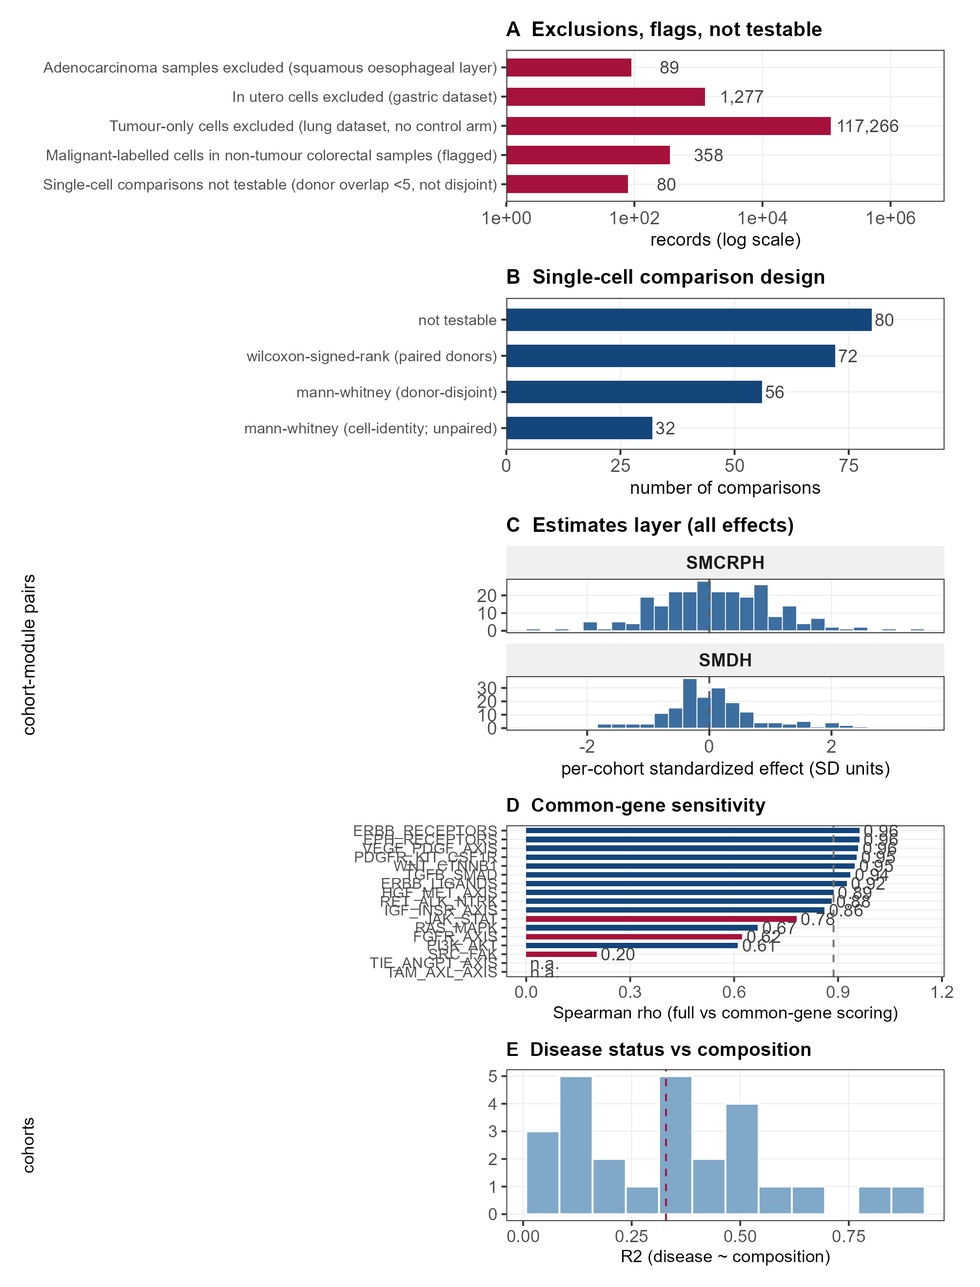
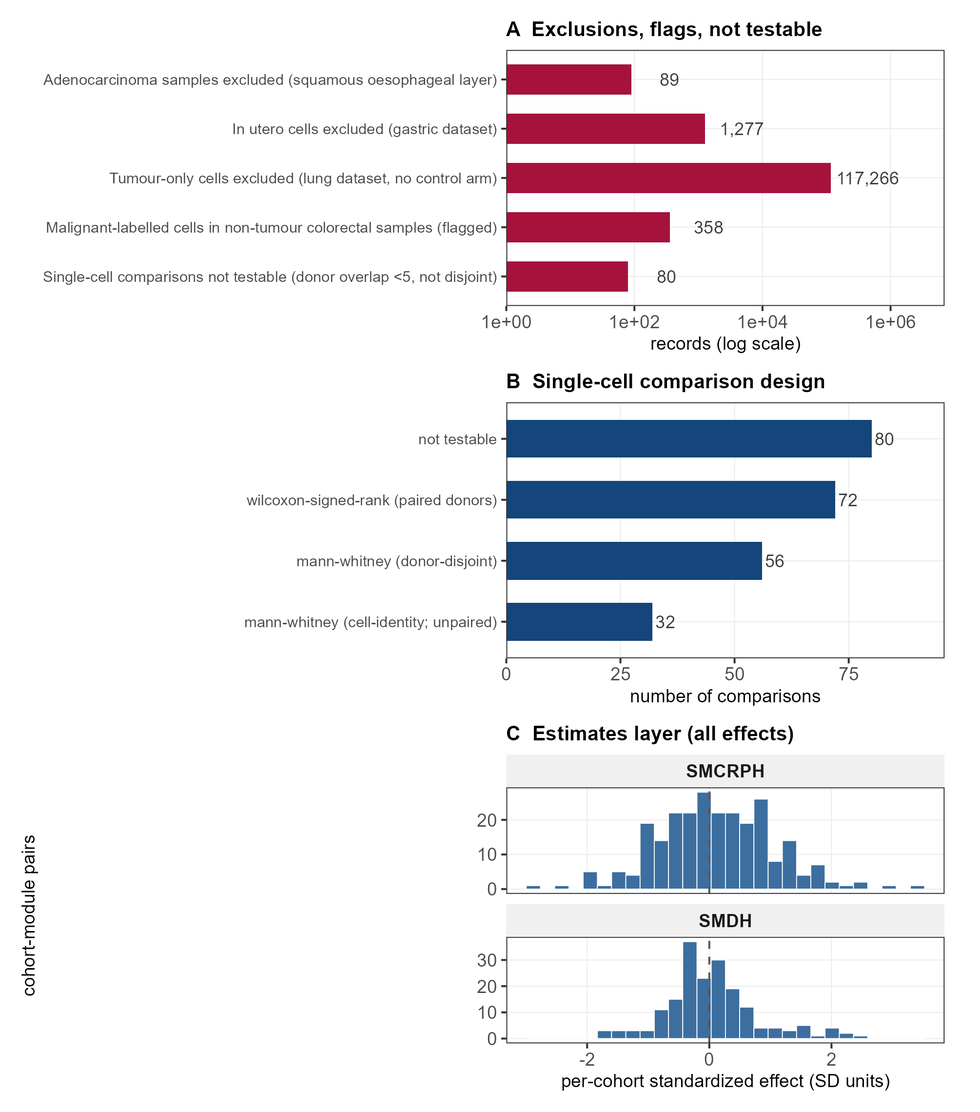
v13.1: fixes from three independent cold reviews - sorted medians, harmonised mutation denominators, CELLxGENE verification record corrected, two-pass checksums (LF, sha256sum -c clean), example 2 made runnable with regenerated expected output, score-level reproducibility table, package self-suffici

diff --git a/scripts/v12_data_resource/83_v13_manuscript.py b/scripts/v12_data_resource/83_v13_manuscript.py
@@ -80,7 +80,7 @@ This resource performs that curation once, documents it, and quantifies how far 
 The resource is deposited in Zenodo ({DEP}) and organised as ten folders: 01 cohort registry, provenance and source versions; 02 sample annotation; 03 expression provenance with the mapping and transformation log; 04 module definitions, coverage and per-sample scores; 05 composition scores with sample keys, join audit and signature overlap; 06 single-cell dataset audit, labels and donor-aware comparisons; 07 the complete estimates layer, including not-estimable and not-testable results; 08 quality-control records, validation evidence and the curation flow; 09 runnable reuse examples with expected outputs and a shipped demo matrix; 10 environment, run order and versioning. A file inventory with row counts and SHA-256 checksums is shipped ({len(inv)} files); the estimates layer contains {n_full} cohort-module rows ({n_est} estimated, {n_ne} not estimable with reasons). Figure legends are provided as a separate document; Tables 1 and Supplementary Tables S1-S9 are separate files.
 
 **Technical Validation**
-Coverage and composition of the resource are shown in Figure 1; the validation evidence is shown in Figures 2 and 3. Sample identity: no sample identifier is duplicated across the {n_cc} case-control cohorts, and every sample in the annotation resolves to a registry entry. Design: pairing is metadata-derived ({n_paired} paired cohorts) and the {n_nopid} cohorts without patient identifiers are analysed unpaired and flagged. Histology and mutation layer: the oesophageal layer is restricted to squamous histology ({tp53['denominator_n']} patients), where TP53 is reported mutated in {tp53['n_mutated_samples']} patients ({tp53['pct']}%), EGFR in {egfr_m['n_mutated_samples']} ({egfr_m['pct']}%), and neither KRAS nor ERBB2 in any patient of the profiled list; EGFR high-level amplification is present in {egfr_c['n_high_amp']} of {egfr_c['n_cna_profiled']} copy-number-profiled squamous patients ({egfr_c['pct_high_amp']}%, with gain or amplification in {egfr_c['n_gain_or_amp']}, {egfr_c['pct_gain']}%). Exact reproduction: the {len(sc_verify)} cohort-module effects and their standard errors of three independently recomputed bulk cohorts agreed with the shipped values to a maximum absolute difference of 0 ({len(set(r['accession'] for r in sc_verify))} cohorts; sample-level scores Spearman 1.00); refitting the Cox models from the shipped patient scores reproduced all {len(tcgacox)} shipped hazard ratios with a maximum absolute difference of 0 (LUAD, CRC and squamous oesophageal contexts, univariable and age-plus-stage). Rank agreement (not exact reproduction): rebuilding the TCGA patient-level scores from the gene-level table reproduced the shipped scores in rank order (Spearman {min(float(r['spearman']) for r in tcgascore):.2f}-0.98 across {sum(int(r['pairs']) for r in tcgascore):,} patient-module pairs), the residual absolute differences arising from the aggregation order, which is now stated explicitly in Methods. Composition: independently recomputed xCell compartment scores agreed with the shipped values (Pearson {min(float(r['pearson']) for r in xcell):.2f}-{max(float(r['pearson']) for r in xcell):.2f}, Spearman {min(float(r['spearman']) for r in xcell):.2f}-{max(float(r['spearman']) for r in xcell):.2f}). Comparability: across the {len(ccons)} context-module pairs with at least two cohorts, {same_sign} ({100*same_sign/len(ccons):.0f}%) have effects of the same sign in every contributing cohort, and the number of pooled states surviving BH control changes from {nsig('all cohorts')} with all cohorts to {nsig('coverage >= 0.60')} at coverage 0.60, {nsig('coverage >= 0.80')} at 0.80 and {nsig('coverage >= 0.90')} at 0.90 (k = {nk('all cohorts')} to {nk('coverage >= 0.90')} pairs), so comparability degrades gradually with coverage rather than being an all-or-nothing property. Survival layer: proportional hazards was not violated for any of the {len(ph)} tested module features, which is evidence of absence of a detectable violation rather than proof that the assumption holds. Single-cell: {len(scc)} comparisons are shipped ({ct.get('tumour-vs-adjacent',0)} tumour-versus-adjacent, {ct.get('case-vs-healthy',0)} case-versus-healthy, {ct.get('cell-identity',0)} cell-identity), each labelled with the test actually used ({tt.get('wilcoxon-signed-rank (paired donors)',0)} paired by donor, {tt.get('mann-whitney (donor-disjoint)',0)} donor-disjoint unpaired, {tt.get('mann-whitney (cell-identity; unpaired)',0)} cell-identity contrasts, {tt.get('not testable',0)} reported as not testable); {len(sig)} comparisons reach FDR below 0.05 within their context x module x comparison-type family and are descriptive rather than validated biology. Module scores are expression-derived and do not measure phosphorylation or pathway activity.{" Module coverage flags: " + ", ".join(disagree) + " show direction disagreement in at least 20% of cohorts and " + ", ".join(notscor) + " have too few shared members to re-score." if disagree or notscor else ""}
+Coverage and composition of the resource are shown in Figure 1; the validation evidence is shown in Figures 2 to 4. Sample identity: no sample identifier is duplicated across the {n_cc} case-control cohorts, and every sample in the annotation resolves to a registry entry. Design: pairing is metadata-derived ({n_paired} paired cohorts) and the {n_nopid} cohorts without patient identifiers are analysed unpaired and flagged. Histology and mutation layer: the oesophageal layer is restricted to squamous histology ({tp53['denominator_n']} patients), where TP53 is reported mutated in {tp53['n_mutated_samples']} patients ({tp53['pct']}%), EGFR in {egfr_m['n_mutated_samples']} ({egfr_m['pct']}%), and neither KRAS nor ERBB2 in any patient of the profiled list; EGFR high-level amplification is present in {egfr_c['n_high_amp']} of {egfr_c['n_cna_profiled']} copy-number-profiled squamous patients ({egfr_c['pct_high_amp']}%, with gain or amplification in {egfr_c['n_gain_or_amp']}, {egfr_c['pct_gain']}%). Exact reproduction: the {len(sc_verify)} cohort-module effects and their standard errors of three independently recomputed bulk cohorts agreed with the shipped values to a maximum absolute difference of 0 ({len(set(r['accession'] for r in sc_verify))} cohorts; sample-level scores Spearman 1.00); refitting the Cox models from the shipped patient scores reproduced all {len(tcgacox)} shipped hazard ratios with a maximum absolute difference of 0 (LUAD, CRC and squamous oesophageal contexts, univariable and age-plus-stage). Rank agreement (not exact reproduction): rebuilding the TCGA patient-level scores from the gene-level table reproduced the shipped scores in rank order (Spearman {min(float(r['spearman']) for r in tcgascore):.2f}-0.98 across {sum(int(r['pairs']) for r in tcgascore):,} patient-module pairs), the residual absolute differences arising from the aggregation order, which is now stated explicitly in Methods. Composition: independently recomputed xCell compartment scores agreed with the shipped values (Pearson {min(float(r['pearson']) for r in xcell):.2f}-{max(float(r['pearson']) for r in xcell):.2f}, Spearman {min(float(r['spearman']) for r in xcell):.2f}-{max(float(r['spearman']) for r in xcell):.2f}). Comparability: across the {len(ccons)} context-module pairs with at least two cohorts, {same_sign} ({100*same_sign/len(ccons):.0f}%) have effects of the same sign in every contributing cohort, and the number of pooled states surviving BH control changes from {nsig('all cohorts')} with all cohorts to {nsig('coverage >= 0.60')} at coverage 0.60, {nsig('coverage >= 0.80')} at 0.80 and {nsig('coverage >= 0.90')} at 0.90 (k = {nk('all cohorts')} to {nk('coverage >= 0.90')} pairs), so comparability degrades gradually with coverage rather than being an all-or-nothing property. Survival layer: proportional hazards was not violated for any of the {len(ph)} tested module features, which is evidence of absence of a detectable violation rather than proof that the assumption holds. Single-cell: {len(scc)} comparisons are shipped ({ct.get('tumour-vs-adjacent',0)} tumour-versus-adjacent, {ct.get('case-vs-healthy',0)} case-versus-healthy, {ct.get('cell-identity',0)} cell-identity), each labelled with the test actually used ({tt.get('wilcoxon-signed-rank (paired donors)',0)} paired by donor, {tt.get('mann-whitney (donor-disjoint)',0)} donor-disjoint unpaired, {tt.get('mann-whitney (cell-identity; unpaired)',0)} cell-identity contrasts, {tt.get('not testable',0)} reported as not testable); {len(sig)} comparisons reach FDR below 0.05 within their context x module x comparison-type family and are descriptive rather than validated biology. Module scores are expression-derived and do not measure phosphorylation or pathway activity.{" Module coverage flags: " + ", ".join(disagree) + " show direction disagreement in at least 20% of cohorts and " + ", ".join(notscor) + " have too few shared members to re-score." if disagree or notscor else ""}
 
 **Usage Notes**
 Which layer to use (Supplementary Table S8): GSVA z-scores within a cohort for within-cohort contrasts; TCGA member-mean z-scores for patient-level comparisons across tumour contexts; single-cell member means for cell-type-resolved questions; composition scores only as descriptors or as a sensitivity-analysis covariate. Users should note that (i) scores are comparable within a cohort and across cohorts only as effect sizes, and the shipped consistency and coverage-sensitivity tables quantify how far that holds; (ii) module coverage must be checked before any cross-cohort comparison, and the common-gene flags identify modules that should not be compared across platforms; (iii) the three score layers must not be concatenated; (iv) composition scores are enrichment scores, not proportions, and share genes with the module scores, so adjusted coefficients should be read as sensitivity analyses; (v) the same disease label in different layers does not imply the same patients, and the resource is not a patient-level multi-omics resource; (vi) the survival, driver and single-cell analyses shipped here are exploratory and include negative and not-estimable results; (vii) cohorts without patient identifiers cannot be analysed as paired, and this is flagged rather than assumed. Maintenance: the resource carries a version number, and updates are published as new versions of the deposit so that earlier DOIs remain citable; the changelog records what changed between versions.
@@ -105,7 +105,8 @@ The author thanks the authors of the source studies and the public data provider
 
 **Figure captions**
 **Figure 1. Resource overview.** (A) Module gene coverage by disease context (fraction of frozen module members present in each cohort's processed matrix); (B) assay records, unique patients with identifiers and paired patients per context; (C) single-cell datasets with the arms available in each, the lung dataset shown as excluded.
-**Figure 2. Technical validation of the resource.** (A) documented exclusions, flags and non-testable comparisons; (B) the single-cell comparison design actually used, by test type; (C) the complete estimates layer including non-significant and not-estimable results; (D) common-gene sensitivity of module scoring with flagged modules marked; (E) collinearity between disease status and the four composition scores per cohort.
+**Figure 2. Technical validation of the resource.** (A) documented exclusions, flags and non-testable comparisons; (B) the single-cell comparison design actually used, by test type; (C) the complete estimates layer including non-significant and not-estimable results.
+**Figure 4. Sensitivity analyses.** (A) common-gene sensitivity of module scoring with flagged modules marked; (B) collinearity between disease status and the four composition scores per cohort.
 **Figure 3. Comparability and coupling checks.** (A) cross-cohort direction consistency per context-module pair; (B) coverage-threshold sensitivity of the pooled results; (C) signature overlap between module members and the xCell panel, and per-predictor VIF within the disease-status model.
 """
 p=os.path.join(V13,"01_manuscript","DataDescriptor_v13.md"); open(p,"w",encoding="utf-8").write(md)

diff --git a/scripts/v12_data_resource/86_v13_word_outputs.py b/scripts/v12_data_resource/86_v13_word_outputs.py
@@ -127,8 +127,10 @@ for t,b in [
   "(A) Documented exclusions, flags and non-testable comparisons on a logarithmic scale. "
   "(B) The comparison design actually used in the single-cell layer, by test type. "
   "(C) The complete estimates layer: all per-cohort standardized effects, faceted by the measure used, including non-significant results. "
-  "(D) Common-gene sensitivity of module scoring: Spearman correlation between full-member and common-gene scoring per module, with flagged modules marked and non-scorable modules labelled n.a. "
-  "(E) Collinearity between disease status and the four composition scores per cohort, with the median marked."),
+  "(C) The complete estimates layer: all per-cohort standardized effects, faceted by the measure used, including non-significant results."),
+ ("Figure 4. Sensitivity analyses.",
+  "(A) Common-gene sensitivity of module scoring: Spearman correlation between full-member and common-gene scoring for each module, with flagged modules marked in red and non-scorable modules labelled n.a. "
+  "(B) Collinearity between disease status and the four composition scores per cohort, with the median marked."),
  ("Figure 3. Comparability and coupling checks.",
   "(A) Cross-cohort direction consistency for every context-module pair with at least two cohorts: the fraction of cohorts sharing the majority effect direction. "
   "(B) Coverage-threshold sensitivity: the number of cohort-module pairs pooled (light) and the number of states surviving BH control (red) as cohorts below 0.60, 0.80 and 0.90 coverage are excluded. "

diff --git a/scripts/v12_data_resource/96_v13_closeout.py b/scripts/v12_data_resource/96_v13_closeout.py
@@ -88,6 +88,10 @@ for a,b in [("01_manuscript/DataDescriptor_v13.docx","01_Manuscript/DataDescript
             ("02_figures/Fig1_resource_overview.pdf","03_Figures/Fig1_resource_overview.pdf"),
             ("02_figures/Fig2_technical_validation.pdf","03_Figures/Fig2_technical_validation.pdf"),
             ("02_figures/Fig3_comparability_checks.pdf","03_Figures/Fig3_comparability_checks.pdf"),
+            ("02_figures/Fig4_sensitivity_checks.png","03_Figures/Fig4_sensitivity_checks.png"),
+            ("02_figures/Fig4_sensitivity_checks.pdf","03_Figures/Fig4_sensitivity_checks.pdf"),
+       ("02_figures/Fig4_sensitivity_checks.png","03_Figures/Fig4_sensitivity_checks.png"),
+       ("02_figures/Fig4_sensitivity_checks.pdf","03_Figures/Fig4_sensitivity_checks.pdf"),
             ("06_三路冷读审稿意见与处置_v13.md","00_先看这个_三路冷读处置.md"),
             ("00_状态与可继续事项_v13.md","00_先看这个_状态与可继续事项.md"),
             ("04_对两审意见的逐条回应_v13.md","00_先看这个_对两审意见的逐条回应.md"),

diff --git a/scripts/v12_data_resource/95_v13_finalise.py b/scripts/v12_data_resource/95_v13_finalise.py
@@ -64,6 +64,10 @@ pairs=[("01_manuscript/DataDescriptor_v13.docx","01_Manuscript/DataDescriptor_v1
        ("02_figures/Fig1_resource_overview.pdf","03_Figures/Fig1_resource_overview.pdf"),
        ("02_figures/Fig2_technical_validation.pdf","03_Figures/Fig2_technical_validation.pdf"),
        ("02_figures/Fig3_comparability_checks.pdf","03_Figures/Fig3_comparability_checks.pdf"),
+            ("02_figures/Fig4_sensitivity_checks.png","03_Figures/Fig4_sensitivity_checks.png"),
+            ("02_figures/Fig4_sensitivity_checks.pdf","03_Figures/Fig4_sensitivity_checks.pdf"),
+       ("02_figures/Fig4_sensitivity_checks.png","03_Figures/Fig4_sensitivity_checks.png"),
+       ("02_figures/Fig4_sensitivity_checks.pdf","03_Figures/Fig4_sensitivity_checks.pdf"),
        ("00_状态与可继续事项_v13.md","00_先看这个_状态与可继续事项.md"),
        ("04_对两审意见的逐条回应_v13.md","00_先看这个_对两审意见的逐条回应.md"),
        ("06_三路冷读审稿意见与处置_v13.md","00_先看这个_三路冷读处置.md"),

diff --git a/manuscript/DataDescriptor_v13.md b/manuscript/DataDescriptor_v13.md
@@ -23,7 +23,7 @@ This resource performs that curation once, documents it, and quantifies how far 
 The resource is deposited in Zenodo ([DOI to be inserted after Zenodo deposit]) and organised as ten folders: 01 cohort registry, provenance and source versions; 02 sample annotation; 03 expression provenance with the mapping and transformation log; 04 module definitions, coverage and per-sample scores; 05 composition scores with sample keys, join audit and signature overlap; 06 single-cell dataset audit, labels and donor-aware comparisons; 07 the complete estimates layer, including not-estimable and not-testable results; 08 quality-control records, validation evidence and the curation flow; 09 runnable reuse examples with expected outputs and a shipped demo matrix; 10 environment, run order and versioning. A file inventory with row counts and SHA-256 checksums is shipped (72 files); the estimates layer contains 442 cohort-module rows (434 estimated, 8 not estimable with reasons). Figure legends are provided as a separate document; Tables 1 and Supplementary Tables S1-S9 are separate files.
 
 **Technical Validation**
-Coverage and composition of the resource are shown in Figure 1; the validation evidence is shown in Figures 2 and 3. Sample identity: no sample identifier is duplicated across the 26 case-control cohorts, and every sample in the annotation resolves to a registry entry. Design: pairing is metadata-derived (15 paired cohorts) and the 9 cohorts without patient identifiers are analysed unpaired and flagged. Histology and mutation layer: the oesophageal layer is restricted to squamous histology (96 patients), where TP53 is reported mutated in 86 patients (89.58%), EGFR in 2 (2.08%), and neither KRAS nor ERBB2 in any patient of the profiled list; EGFR high-level amplification is present in 14 of 96 copy-number-profiled squamous patients (14.58%, with gain or amplification in 64, 66.67%). Exact reproduction: the 49 cohort-module effects and their standard errors of three independently recomputed bulk cohorts agreed with the shipped values to a maximum absolute difference of 0 (3 cohorts; sample-level scores Spearman 1.00); refitting the Cox models from the shipped patient scores reproduced all 68 shipped hazard ratios with a maximum absolute difference of 0 (LUAD, CRC and squamous oesophageal contexts, univariable and age-plus-stage). Rank agreement (not exact reproduction): rebuilding the TCGA patient-level scores from the gene-level table reproduced the shipped scores in rank order (Spearman 0.95-0.98 across 20,451 patient-module pairs), the residual absolute differences arising from the aggregation order, which is now stated explicitly in Methods. Composition: independently recomputed xCell compartment scores agreed with the shipped values (Pearson 0.71-0.95, Spearman 0.48-0.94). Comparability: across the 165 context-module pairs with at least two cohorts, 112 (68%) have effects of the same sign in every contributing cohort, and the number of pooled states surviving BH control changes from 13 with all cohorts to 13 at coverage 0.60, 12 at 0.80 and 6 at 0.90 (k = 165 to 130 pairs), so comparability degrades gradually with coverage rather than being an all-or-nothing property. Survival layer: proportional hazards was not violated for any of the 17 tested module features, which is evidence of absence of a detectable violation rather than proof that the assumption holds. Single-cell: 240 comparisons are shipped (168 tumour-versus-adjacent, 40 case-versus-healthy, 32 cell-identity), each labelled with the test actually used (72 paired by donor, 56 donor-disjoint unpaired, 32 cell-identity contrasts, 80 reported as not testable); 37 comparisons reach FDR below 0.05 within their context x module x comparison-type family and are descriptive rather than validated biology. Module scores are expression-derived and do not measure phosphorylation or pathway activity. Module coverage flags: FGFR_AXIS, JAK_STAT, SRC_FAK show direction disagreement in at least 20% of cohorts and TAM_AXL_AXIS, TIE_ANGPT_AXIS have too few shared members to re-score.
+Coverage and composition of the resource are shown in Figure 1; the validation evidence is shown in Figures 2 to 4. Sample identity: no sample identifier is duplicated across the 26 case-control cohorts, and every sample in the annotation resolves to a registry entry. Design: pairing is metadata-derived (15 paired cohorts) and the 9 cohorts without patient identifiers are analysed unpaired and flagged. Histology and mutation layer: the oesophageal layer is restricted to squamous histology (96 patients), where TP53 is reported mutated in 86 patients (89.58%), EGFR in 2 (2.08%), and neither KRAS nor ERBB2 in any patient of the profiled list; EGFR high-level amplification is present in 14 of 96 copy-number-profiled squamous patients (14.58%, with gain or amplification in 64, 66.67%). Exact reproduction: the 49 cohort-module effects and their standard errors of three independently recomputed bulk cohorts agreed with the shipped values to a maximum absolute difference of 0 (3 cohorts; sample-level scores Spearman 1.00); refitting the Cox models from the shipped patient scores reproduced all 68 shipped hazard ratios with a maximum absolute difference of 0 (LUAD, CRC and squamous oesophageal contexts, univariable and age-plus-stage). Rank agreement (not exact reproduction): rebuilding the TCGA patient-level scores from the gene-level table reproduced the shipped scores in rank order (Spearman 0.95-0.98 across 20,451 patient-module pairs), the residual absolute differences arising from the aggregation order, which is now stated explicitly in Methods. Composition: independently recomputed xCell compartment scores agreed with the shipped values (Pearson 0.71-0.95, Spearman 0.48-0.94). Comparability: across the 165 context-module pairs with at least two cohorts, 112 (68%) have effects of the same sign in every contributing cohort, and the number of pooled states surviving BH control changes from 13 with all cohorts to 13 at coverage 0.60, 12 at 0.80 and 6 at 0.90 (k = 165 to 130 pairs), so comparability degrades gradually with coverage rather than being an all-or-nothing property. Survival layer: proportional hazards was not violated for any of the 17 tested module features, which is evidence of absence of a detectable violation rather than proof that the assumption holds. Single-cell: 240 comparisons are shipped (168 tumour-versus-adjacent, 40 case-versus-healthy, 32 cell-identity), each labelled with the test actually used (72 paired by donor, 56 donor-disjoint unpaired, 32 cell-identity contrasts, 80 reported as not testable); 37 comparisons reach FDR below 0.05 within their context x module x comparison-type family and are descriptive rather than validated biology. Module scores are expression-derived and do not measure phosphorylation or pathway activity. Module coverage flags: FGFR_AXIS, JAK_STAT, SRC_FAK show direction disagreement in at least 20% of cohorts and TAM_AXL_AXIS, TIE_ANGPT_AXIS have too few shared members to re-score.
 
 **Usage Notes**
 Which layer to use (Supplementary Table S8): GSVA z-scores within a cohort for within-cohort contrasts; TCGA member-mean z-scores for patient-level comparisons across tumour contexts; single-cell member means for cell-type-resolved questions; composition scores only as descriptors or as a sensitivity-analysis covariate. Users should note that (i) scores are comparable within a cohort and across cohorts only as effect sizes, and the shipped consistency and coverage-sensitivity tables quantify how far that holds; (ii) module coverage must be checked before any cross-cohort comparison, and the common-gene flags identify modules that should not be compared across platforms; (iii) the three score layers must not be concatenated; (iv) composition scores are enrichment scores, not proportions, and share genes with the module scores, so adjusted coefficients should be read as sensitivity analyses; (v) the same disease label in different layers does not imply the same patients, and the resource is not a patient-level multi-omics resource; (vi) the survival, driver and single-cell analyses shipped here are exploratory and include negative and not-estimable results; (vii) cohorts without patient identifiers cannot be analysed as paired, and this is flagged rather than assumed. Maintenance: the resource carries a version number, and updates are published as new versions of the deposit so that earlier DOIs remain citable; the changelog records what changed between versions.
@@ -48,5 +48,6 @@ The author thanks the authors of the source studies and the public data provider
 
 **Figure captions**
 **Figure 1. Resource overview.** (A) Module gene coverage by disease context (fraction of frozen module members present in each cohort's processed matrix); (B) assay records, unique patients with identifiers and paired patients per context; (C) single-cell datasets with the arms available in each, the lung dataset shown as excluded.
-**Figure 2. Technical validation of the resource.** (A) documented exclusions, flags and non-testable comparisons; (B) the single-cell comparison design actually used, by test type; (C) the complete estimates layer including non-significant and not-estimable results; (D) common-gene sensitivity of module scoring with flagged modules marked; (E) collinearity between disease status and the four composition scores per cohort.
+**Figure 2. Technical validation of the resource.** (A) documented exclusions, flags and non-testable comparisons; (B) the single-cell comparison design actually used, by test type; (C) the complete estimates layer including non-significant and not-estimable results.
+**Figure 4. Sensitivity analyses.** (A) common-gene sensitivity of module scoring with flagged modules marked; (B) collinearity between disease status and the four composition scores per cohort.
 **Figure 3. Comparability and coupling checks.** (A) cross-cohort direction consistency per context-module pair; (B) coverage-threshold sensitivity of the pooled results; (C) signature overlap between module members and the xCell panel, and per-predictor VIF within the disease-status model.
